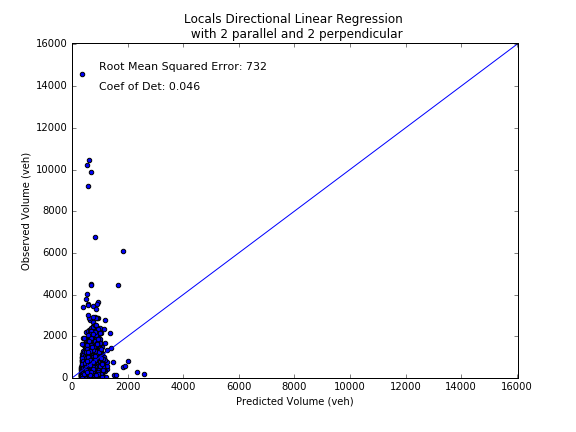
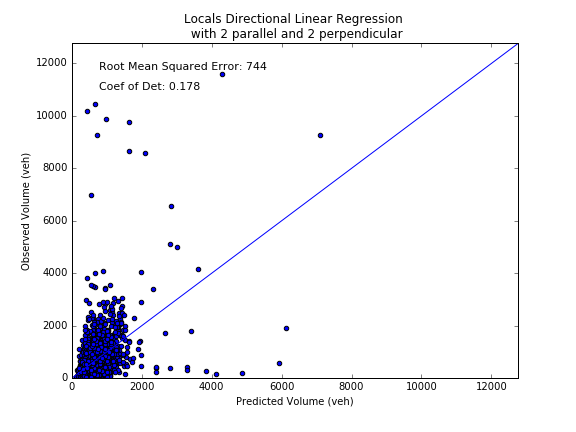
Bug Fix + Update Doc

diff --git a/volume_project/spatial_extrapolation/spatial_extrapolation.py b/volume_project/spatial_extrapolation/spatial_extrapolation.py
@@ -87,7 +87,7 @@ class spatial_extrapolation(vol_utils):
             sample_size = sample_size / 100
             
         data = self.get_directional_rel_groups(road_class)
-        self.logging.debug('Linear Regression Directional - Got Trainig Data')
+        self.logger.debug('Linear Regression Directional - Got Trainig Data')
         neighb = list(data[data['neighbour_vol'].map(len) == 4]['neighbour_vol'])
         orig = list(data[data['neighbour_vol'].map(len) == 4]['volume'])
         if sample_size != 1:
@@ -98,7 +98,7 @@ class spatial_extrapolation(vol_utils):
         
         regr = linear_model.LinearRegression()
         regr.fit(x_train, y_train)
-        self.logging.debug('Linear Regression Directional - Trained')
+        self.logger.debug('Linear Regression Directional - Trained')
         if sample_size != 1:
             y_predict = regr.predict(x_test)
             self.scatterplot(y_predict, y_test, road_class, regr.score(x_test, y_test), 'directional_regr', ' Directional Linear Regression \n with 2 parallel and 2 perpendicular')
@@ -110,10 +110,11 @@ class spatial_extrapolation(vol_utils):
             tabl = [[None, b, 2015, int(y), a, 2] for a,b,y in zip(data['group_number'], data['dir_bin'],y_predict)]
             self.db.inserttable('prj_volume.aadt', tabl)
             self.logger.info('Uploaded results for road class ' + self.rc_lookup[road_class] +' to prj_volume.aadt. Estimated by directional regression')
-            
+        return regr.coef_
+        
     def linear_regression_prox(self, road_class, nNeighbours):
         data = self.get_coord_data(road_class)
-        self.logging.debug('Linear Regression Proximity - Got Trainig Data')
+        self.logger.debug('Linear Regression Proximity - Got Trainig Data')
         
         dist = np.array(data[['from_x','from_y','to_x','to_y']])
         kdt = KDTree(dist, nNeighbours + 1)
@@ -124,7 +125,7 @@ class spatial_extrapolation(vol_utils):
         neighb = np.asarray(neighb).T
         regr = linear_model.LinearRegression()
         regr.fit(neighb, orig)
-        self.logging.debug('Linear Regression Proximity - Trained')       
+        self.logger.debug('Linear Regression Proximity - Trained')       
         
         data = self.get_neighbour_data(road_class, nNeighbours)
         y_predict = regr.predict(list(data['neighbour_vol']))
@@ -161,9 +162,8 @@ class spatial_extrapolation(vol_utils):
         ax.set_xlabel('Number of Neighbour')
         ax.set_ylabel('Root Mean Squared Error (veh)')
         fig.savefig('spatial_extrapolation/img/'+self.rc_lookup[road_class].lower().replace(' ', '_') +'_proximity_regr_scores.png')
-
         
-    def scatterplot(self, y_predict, y_test, road_class, coef_det, estimation_method, title_notes=''):
+    def scatterplot(self, y_predict, y_test, road_class, coef_det, estimation_method, title_notes = ''):
         
         fig, ax = plt.subplots(figsize=[8,6])
         

diff --git a/volume_project/spatial_extrapolation/README.md b/volume_project/spatial_extrapolation/README.md
@@ -59,6 +59,16 @@ Coef. of Det.|0.230|0.046|0.213|
 
 ![locals_proximity_regr_scores](img/locals_proximity_regr_scores.png)
 
+#### Directional Regression Coefficients
+|Road Class|Perpendicular Segs Coef|Parallel Segs Coef|
+|:----------:|:-----------------------:|:------------------:| 
+Major Arterials|0.0077 -0.0013|0.4404  0.4340|
+Minor Arterials|-0.0132 0.0429|0.4129  0.2954|
+Collectors|0.0104 0.0249|0.3937  0.1681|
+Locals|0.0037 0.0129|0.1779 0.2441|
+
+The coefficients indicate a strong correlation between upstream and downstream segments and a week if existent relationship between perpendicular segments. As we move from major arterials to locals, the relationship gets messier.
+
 ### Kriging
 |Road Class|Semivariogram|
 |:----------:|:-------------:|

diff --git a/volume_project/populate_datatables/README.md b/volume_project/populate_datatables/README.md
@@ -40,6 +40,8 @@ volume|integer|total vehicle throughput on segment during time bin
 count_type|integer|1 for ATR, 2 for TMC
 speed_class|integer|(optional) speed bin number the count falls into (1-14), if this is not a speed count, the field will be NULL/0.  
 
+* Weekend counts are not filtered at this step.
+
 ## Spatial Count Availability 2010-2016
 ### ATR
 !['ATR2010-2016'](img/ATR2010-2016.png)
